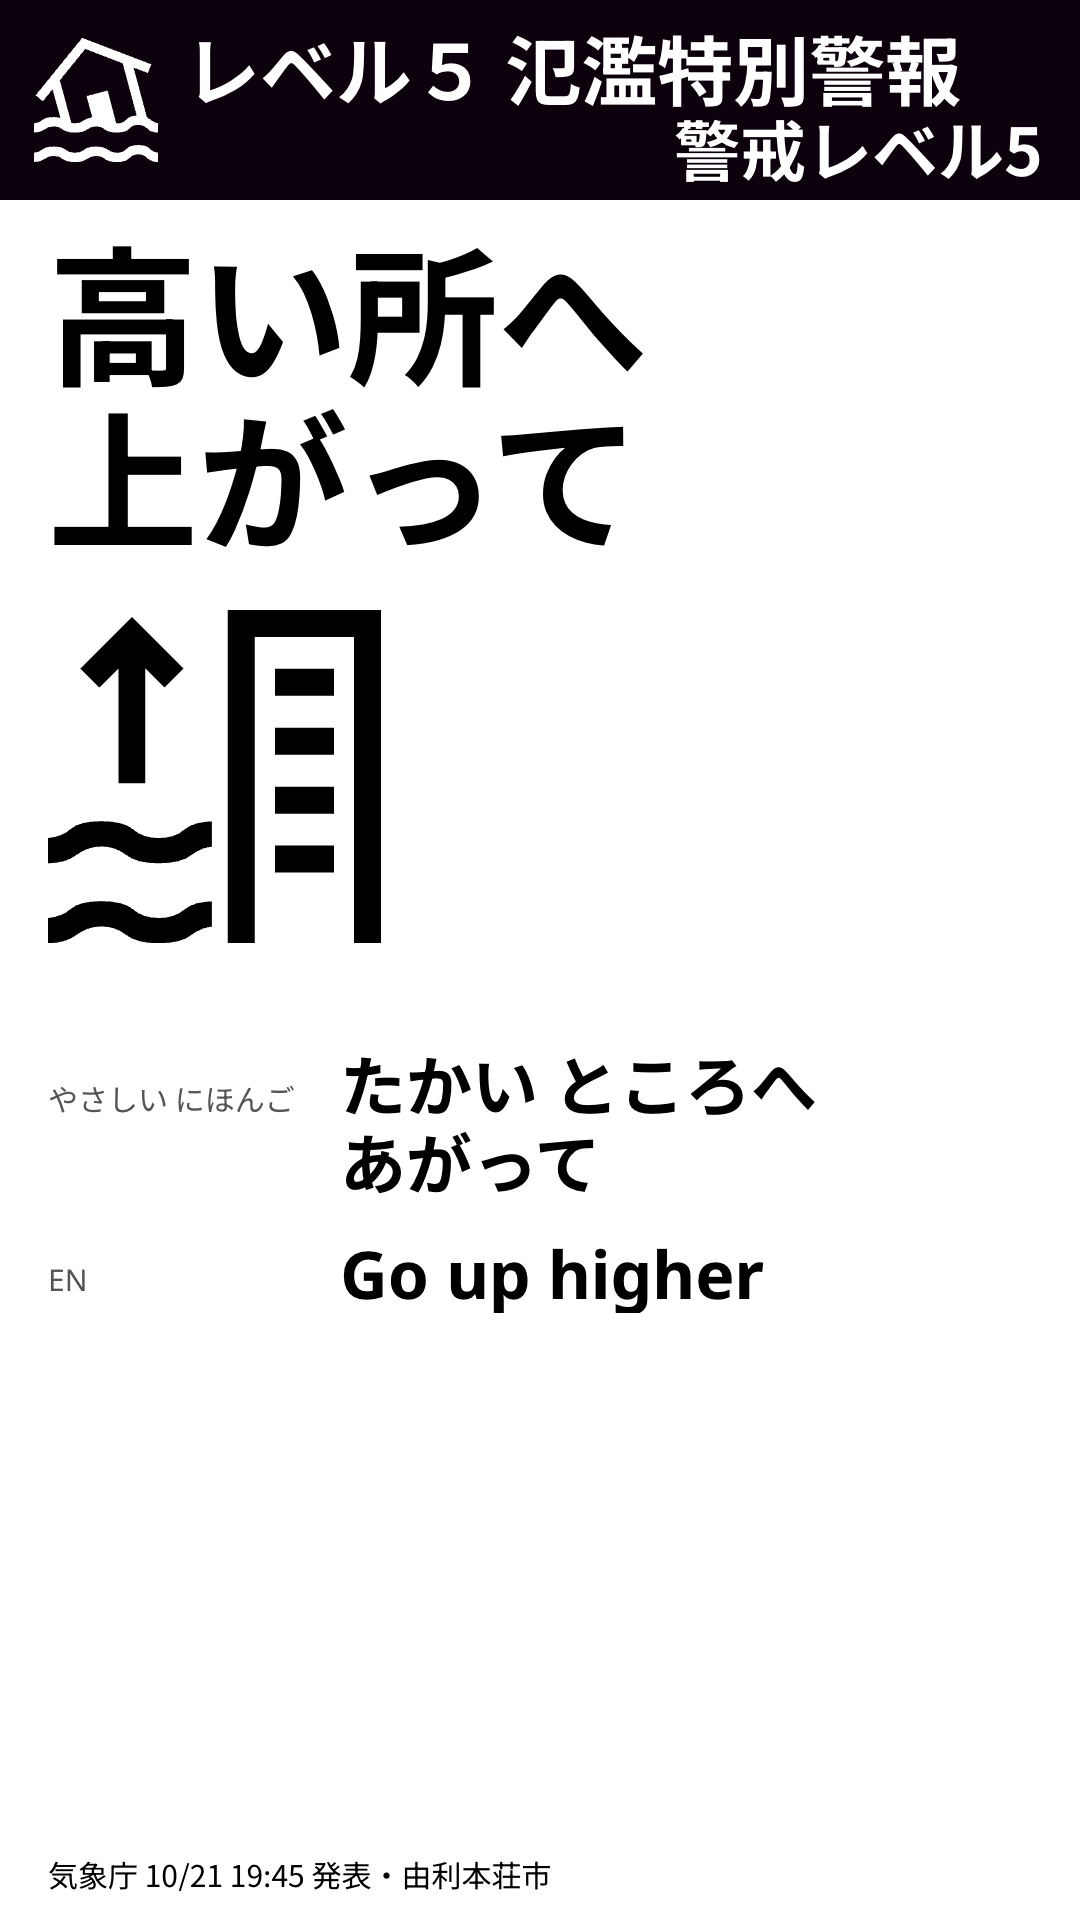
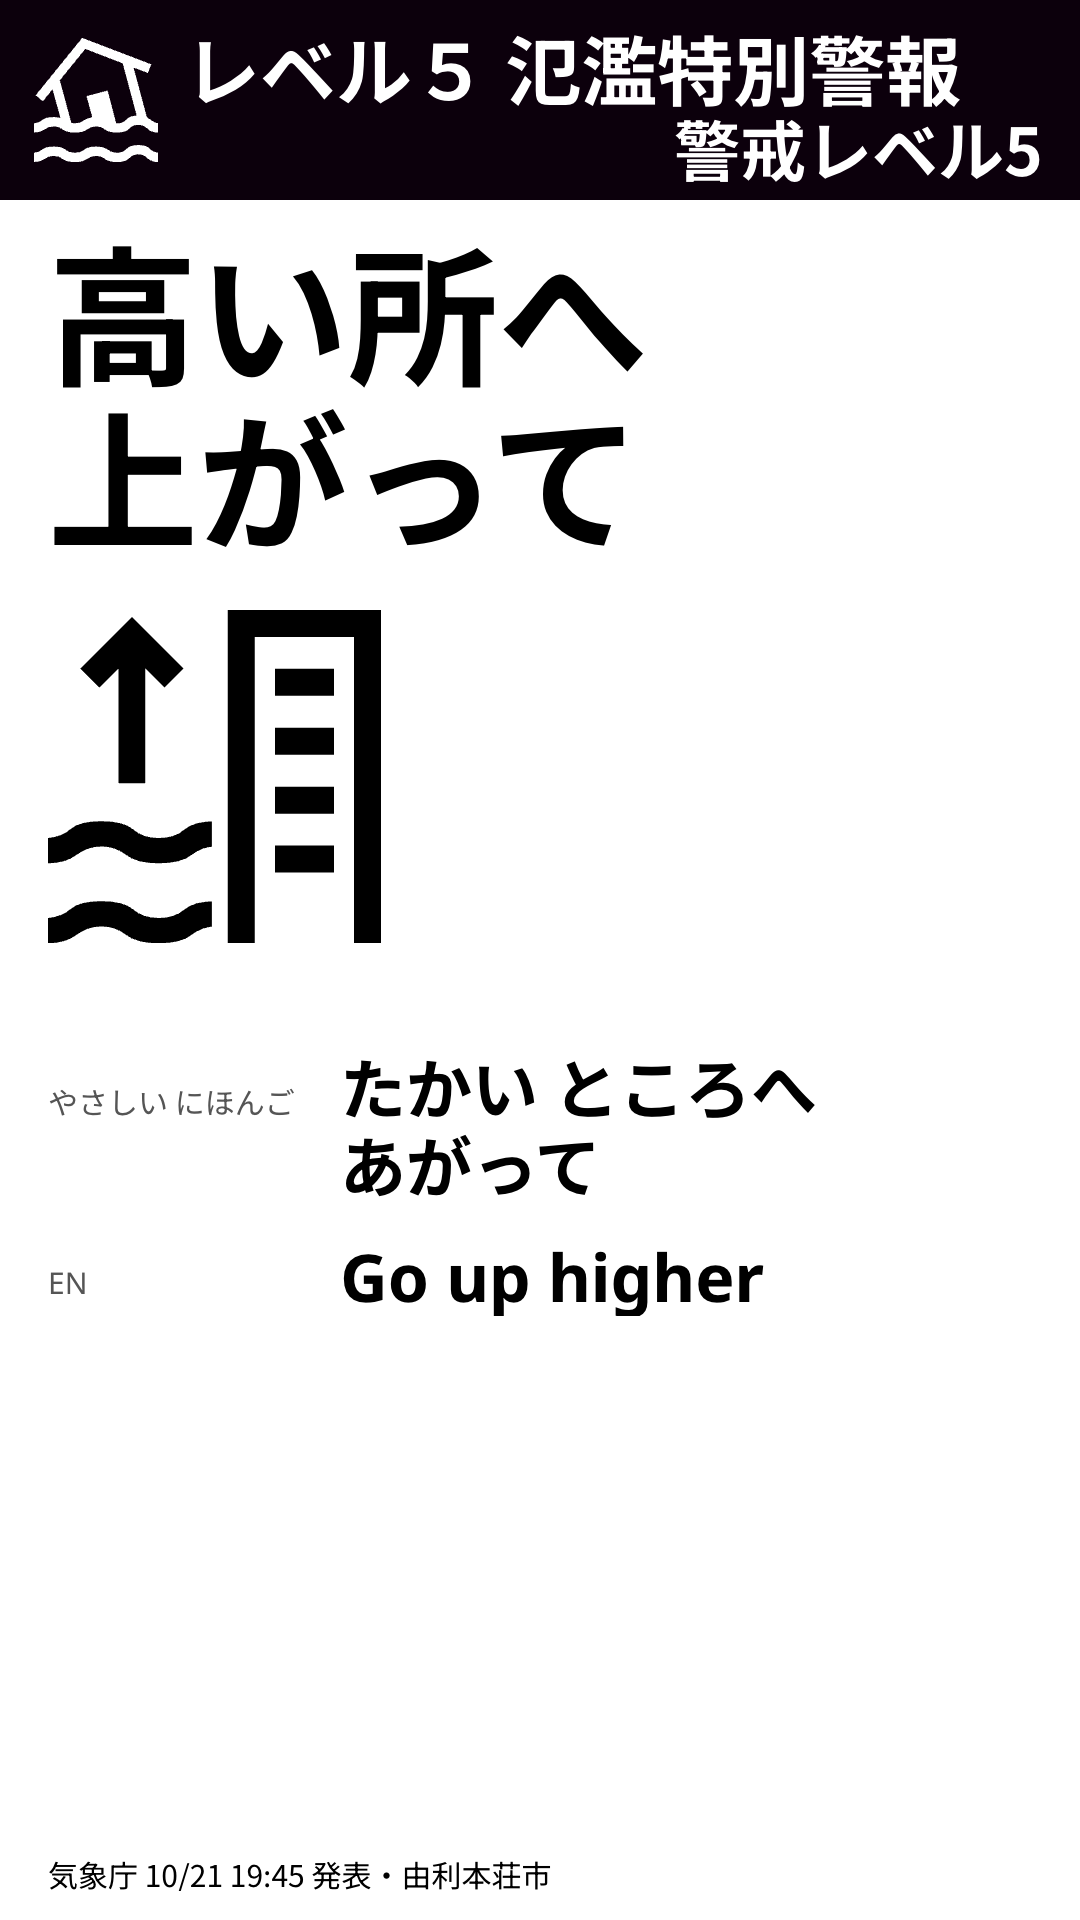
fix(layout): 1:1 distance right-aligned at the artboard's edge; a clamped name still shrinks first
A four-digit distance no longer leaves the face, and wrapping is detected
from the line rectangles so a one-line clamp goes through the 80 % step
before the ellipsis. docs/screens regenerated.

diff --git a/app/layout/templates.ts b/app/layout/templates.ts
@@ -140,25 +140,25 @@ const RIBBON_CLEAR: ShapeLayout = {
 
 // 1:1 is 田中's Figma artboard (2026-11-05 L-5, node 3230:4 with the 3266:25 parts, 1080 × 1080): the band 200, the
 // two-line action from x 48, the run pictogram's ink 144 × 193 at (51, 590) as the hero beside the shelter group
-// (site ink at (275, 602), texts from x 398, the distance "570 m" anchored at x 833) and the direction under it
+// (site ink at (275, 602), texts from x 398, the distance "570 m" right-aligned at x 1044) and the direction under it
 // from x 766, and a black language band from y 820 with white labels above the text. No source line on the face
 // (the document footer carries the sources). The fr row above the band takes a taller screen.
 const FIGMA_SQUARE_TYPE = { headline: 76, level: 66, action: 150, direction: 70, shelter: 64, shelterNarrow: 51, kind: 30, distance: 72, label: 30, languages: 56, languagesNarrow: 47 }
 const SQUARE: ShapeLayout = {
   id: 'figma-square',
-  columns: [48, 202, 14, 502, 314],
+  columns: [48, 202, 14, 502, 278, 36],
   rows: [200, 27, 335, 26, 2, 122, 71, 17, '1fr', 260],
   areas: [
-    'headline headline headline headline headline',
-    '. . . . .',
-    '. action action action action',
-    '. . . . .',
-    '. . . shelter shelter',
-    '. hero . shelter shelter',
-    '. hero . . direction',
-    '. . . . direction',
-    '. . . . .',
-    'languages languages languages languages languages',
+    'headline headline headline headline headline headline',
+    '. . . . . .',
+    '. action action action action .',
+    '. . . . . .',
+    '. . . shelter shelter .',
+    '. hero . shelter shelter .',
+    '. hero . . direction direction',
+    '. . . . direction direction',
+    '. . . . . .',
+    'languages languages languages languages languages languages',
   ],
   required: ['headline', 'action', 'direction', 'shelter', 'languages'],
   pictogramPx: { headline: 112, action: 0, direction: 56, shelter: 92 },
@@ -174,7 +174,7 @@ const SQUARE: ShapeLayout = {
 const SQUARE_CLEAR: ShapeLayout = {
   ...SQUARE,
   id: 'figma-square-clear',
-  areas: SQUARE.areas.map((row) => row.replace('shelter shelter', '. .').replace('direction', '.')),
+  areas: SQUARE.areas.map((row) => row.replace('shelter shelter', '. .').replace('direction direction', '. .')),
   required: ['headline', 'action', 'languages'],
   pictogramPx: { headline: 112, action: 0 },
 }

diff --git a/app/app/components/EvacScreen.vue b/app/app/components/EvacScreen.vue
@@ -171,12 +171,15 @@ function measureOverflow(): { cells: CellOverflow[]; screen: boolean } {
 
 let fitGeneration = 0
 
-// A name that needs more than one line, or runs past its row (a segment that must not break inside).
+// A name that needs more than one line, more lines than its clamp, or runs past its row (a segment that must not break inside).
 function shelterNameWraps(): boolean {
   const name = root.value?.querySelector<HTMLElement>('.shelter-name-text, .shelter-text > p.t-guide')
   if (!name) return false
   const twoLines = name.getBoundingClientRect().height > parseFloat(getComputedStyle(name).lineHeight) + OVERFLOW_TOLERANCE_PX
-  return twoLines || name.scrollWidth > name.clientWidth + OVERFLOW_TOLERANCE_PX
+  const range = document.createRange()
+  range.selectNodeContents(name)
+  const lineTops = new Set([...range.getClientRects()].map((rect) => Math.round(rect.top)))
+  return twoLines || lineTops.size > 1 || name.scrollWidth > name.clientWidth + OVERFLOW_TOLERANCE_PX
 }
 
 async function fit() {

diff --git a/app/app/assets/screen.css b/app/app/assets/screen.css
@@ -540,13 +540,12 @@ body {
 }
 .evac-screen.shape-square .is-figma .name-row {
   display: grid;
-  grid-template-columns: calc(435 * var(--px)) auto;
+  grid-template-columns: minmax(0, 1fr) auto;
   align-items: start;
-  gap: 0;
+  gap: calc(24 * var(--px));
 }
 .evac-screen.shape-square .is-figma .shelter-name-text {
   margin-top: calc(2 * var(--px));
-  padding-right: calc(24 * var(--px));
   font-size: calc(var(--type-shelter) * var(--px));
   line-height: 1;
   text-wrap: wrap;
@@ -558,6 +557,7 @@ body {
 }
 .evac-screen.shape-square .is-figma .name-row .distance {
   margin: 0;
+  justify-self: end;
   font-size: calc(var(--type-distance) * var(--px));
   line-height: 1;
 }

diff --git a/app/layout/GRID.md b/app/layout/GRID.md
@@ -175,6 +175,6 @@ Each shape reproduces its artboard in file `H213MoFcJtIZ96s6qdmBZ8` the way 9:16
 
 - **16:9** (node 3223:4, 1920 × 1080, `figma-split`): columns 52 · 720 · 1fr · 897 · 52; rows 172 · 24 · 27 · 255 · 90 · 167 · 49 · 1fr · 170 · 20 · 29 · 31. Band: hazard ink 98 at (48, 38), headline 64 at (195, 46), level 64 right-aligned at 1868. Action 120 / 1.25 in the 720 column, the run ink 225 under it (gap 52). Direction (arrow ink 129, text 122) and shelter (site ink 157, kind 32, name 79, distance 92) right-aligned in the 897 column; the shelter owns the rows down to the languages so a two-line name fits. Languages 54 with 24 labels in a 256 column, pairs 31 apart; source 24 right-aligned.
 - **32:9** (node 3223:80, 3840 × 1080, `figma-ribbon`): columns 780 · 107 · 1369 · 1fr · 769 · 92; rows 40 · 83 · 185 · 53 · 24 · 30 · 275 · 39 · 1fr · 294. The level colour fills the 780 panel: hazard ink 310 at (79, 91), two-line headline 96 / 1.25 at (60, 480) (`headlineLines: 2`), level 96 at (60, 800). Source 30 on top of the white field, action 150 one line, run ink 344, direction (arrow ink 166, text 170) from x 2979, shelter (site ink 253, kind 32, name 140, distance 150) from x 2256, both ending at x 3748. Languages 90 side by side (1456 columns) on the black band with 30 labels in #bebebe above the text.
-- **1:1** (node 3230:4 with the 3266:25 parts, 1080 × 1080, `figma-square`, L-5 2026-11-05): columns 48 · 202 · 14 · 502 · 314; rows 200 · 27 · 335 · 26 · 2 · 122 · 71 · 17 · 1fr · 260. Band: hazard ink 112 at (40, 45), headline 76 at (184, 22), level 66 right-aligned at 1032. Action 150 / 1.1 two lines from x 48; the run pictogram's ink 144 × 193 at (51, 590) is the hero. Beside it the shelter group (site ink 92 at (275, 602), kind 30, name 64, the distance 72 written "570 m" and anchored at x 833) and under that the direction (arrow ink 56 at (766, 736), text 70). A black language band from 820 with the labels 30 in white above the text 56. No source line (the document footer carries the sources). The shelter cell is 124 tall, so a long name shrinks to 80 % and then ends in an ellipsis on one line.
+- **1:1** (node 3230:4 with the 3266:25 parts, 1080 × 1080, `figma-square`, L-5 2026-11-05): columns 48 · 202 · 14 · 502 · 314; rows 200 · 27 · 335 · 26 · 2 · 122 · 71 · 17 · 1fr · 260. Band: hazard ink 112 at (40, 45), headline 76 at (184, 22), level 66 right-aligned at 1032. Action 150 / 1.1 two lines from x 48; the run pictogram's ink 144 × 193 at (51, 590) is the hero. Beside it the shelter group (site ink 92 at (275, 602), kind 30, name 64, the distance 72 written "570 m" and right-aligned at x 1044, the name taking the room to its left) and under that the direction (arrow ink 56 at (766, 736), text 70). A black language band from 820 with the labels 30 in white above the text 56. No source line (the document footer carries the sources). The shelter cell is 124 tall, so a long name shrinks to 80 % and then ends in an ellipsis on one line.
 - **Pillar** (node 3230:68, four faces of 1654 × 5046 in strip px, `figma-face`, `PILLAR.faceScale` 1): columns 80 · 273 · 842 · 377 · 82; rows 320 · 307 · 1132 · 417 · 442 · 216 · 406 · 256 · 275 · 121 · 383 · 1fr · 546. Band 320: hazard ink 186 at (95, 59), headline 90 at (336, 37), level 90 right-aligned at 1582. The run pictogram's ink 842 × 1132 at (353, 627) is the hero; action 190 / 1.15 two lines in 1160; languages 88 with 40 labels centred on their lines (the easy-Japanese line breaks after あぶない as on the artboard); the 32:9 shelter group; direction arrow ink 261 at (130, 4014) with the text 270; the foot band from 4500 carries the source 70 in white at (80, 4740). The artboard's faces 2–4 sit 3 px left of a 1654 pitch; the app uses the pitch.
 - Long facility names on every shape but 9:16 (whose artboard rule is §8): the name is set at 80 % first, then takes two lines, then ends in an ellipsis (`-webkit-line-clamp: 2`); the distance and the direction never move, and the direction is never an overflow victim (`fit.ts`). `app/test/shelter-name.test.ts` renders a twenty-character name on all five shapes.
